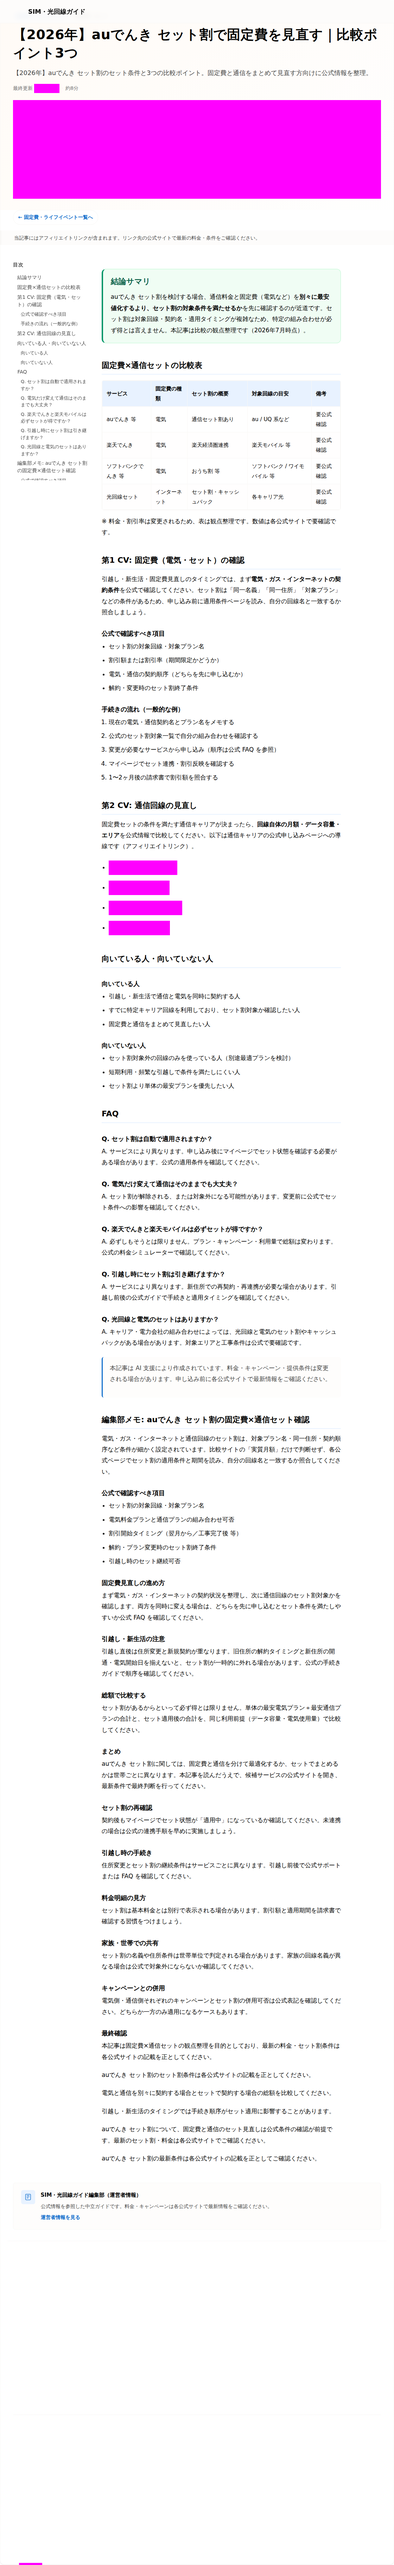
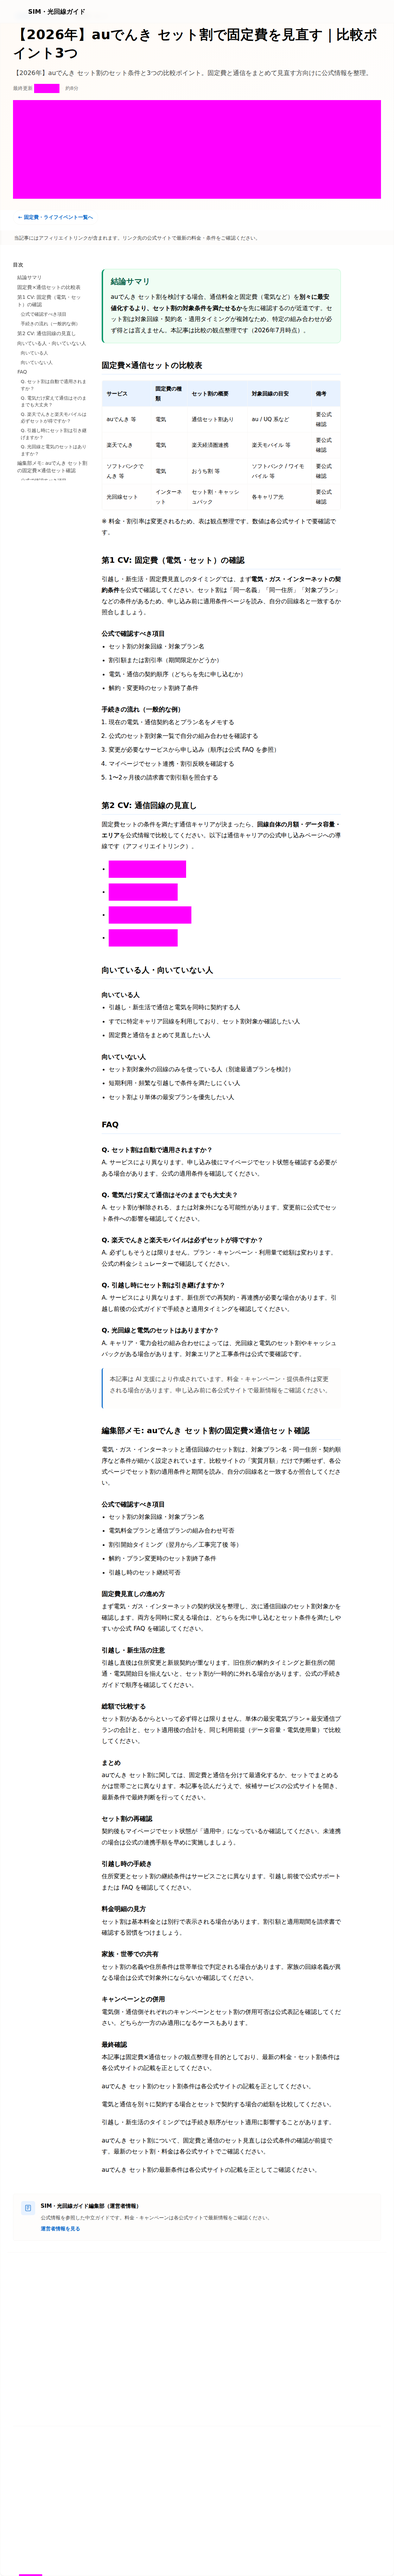
refactor(ux): CTA 見た目をトークンで統一（UX-CTA-VIS-01） (#119)
* refactor(ux): CTA 見た目をトークンで統一（UX-CTA-VIS-01）

prose / HubAspCtaSection / AffiliateButton の radius・padding・hover を --cta-* トークン経由で揃える。A/B 配置ロジックは変更なし。

* chore(ci): upload visual diff artifacts for PR comment

---------

diff --git a/site/src/styles/prose.css b/site/src/styles/prose.css
@@ -52,26 +52,18 @@
   border: 1px solid var(--border);
 }
 
-.prose .table-scroll:focus-within {
-  outline: 2px solid var(--accent);
-  outline-offset: 2px;
-}
-
 .prose .table-scroll::after {
   content: "← 横にスクロールできます →";
   display: block;
   text-align: center;
   font-size: 0.75rem;
-  line-height: 1.2;
   color: var(--text-secondary);
   padding: 0.35rem 0 0;
-  /* Reserve hint height on all viewports to avoid CLS when mobile hint paints */
-  min-height: calc(0.75rem * 1.2 + 0.35rem);
 }
 
 @media (min-width: 641px) {
   .prose .table-scroll::after {
-    visibility: hidden;
+    display: none;
   }
 }
 
@@ -84,7 +76,7 @@
 
 .prose thead {
   background: var(--accent-soft);
-  font-weight: 700;
+  font-weight: 600;
 }
 
 .prose th,
@@ -106,15 +98,16 @@
   display: inline-flex;
   align-items: center;
   justify-content: center;
-  min-height: 44px;
-  padding: 0.45rem 0.85rem;
+  min-height: var(--cta-min-height);
+  padding: var(--cta-padding-y) var(--cta-padding-x);
   margin: 0.25rem 0;
-  border-radius: var(--radius-sm);
+  border-radius: var(--cta-radius);
   background: var(--accent);
   color: var(--text-on-accent);
-  font-weight: 700;
-  font-size: 0.9rem;
+  font-weight: var(--cta-font-weight);
+  font-size: var(--cta-font-size);
   text-decoration: none;
+  transition: var(--cta-transition);
 }
 
 .prose a.affiliate-link:hover {

diff --git a/site/src/styles/tokens.css b/site/src/styles/tokens.css
@@ -70,6 +70,14 @@
   --sticky-top-offset: calc(var(--site-header-height) + 1rem);
   --space-section: 3rem;
   --space-block: 1.5rem;
+  /* Shared CTA button surface (prose / Hub / AffiliateButton) */
+  --cta-radius: var(--radius-sm);
+  --cta-padding-y: 0.65rem;
+  --cta-padding-x: 1.25rem;
+  --cta-font-size: 0.95rem;
+  --cta-font-weight: 700;
+  --cta-min-height: 44px;
+  --cta-transition: background 0.15s ease;
 }
 
 @supports not (color: Canvas) {
